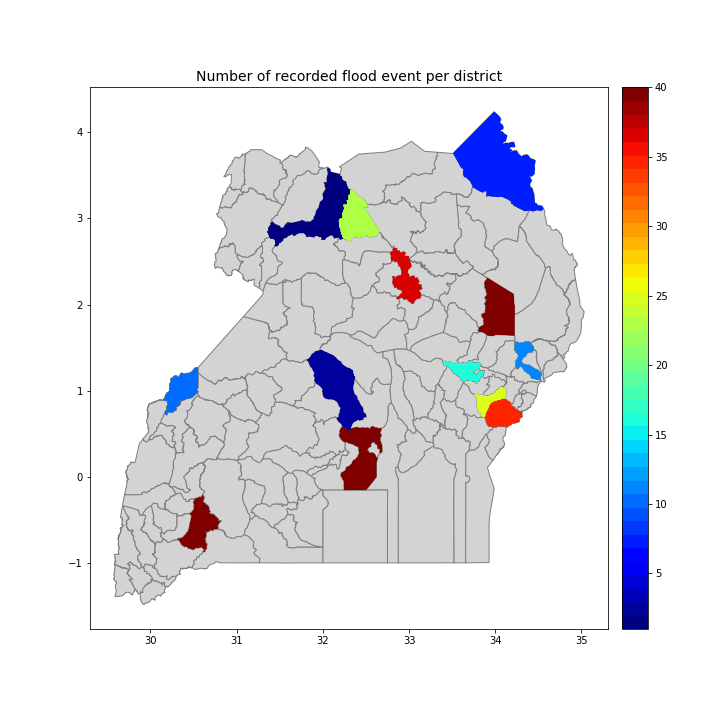
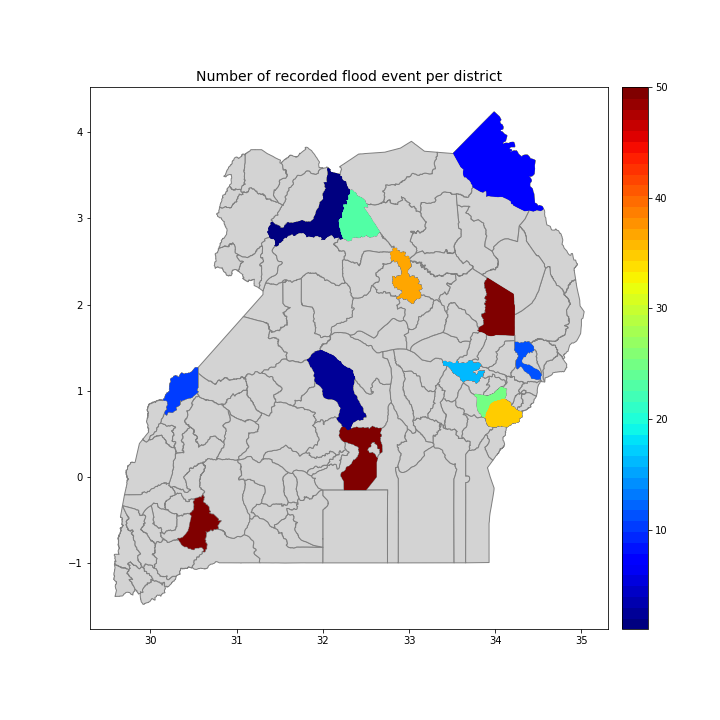
update

diff --git a/scripts/V111_glofas_analysis.py b/scripts/V111_glofas_analysis.py
@@ -194,14 +194,14 @@ for districts in Affected_admin: # for each district of Uganda
 #%% PLOTS to ZOOM TO SPECIFIC STATION AND TIMEFRAME
 # manual QC of specific station and date : change date and station below
 
-startYear, startMonth,startDay = (2007,5,23)
-endYear, endMonth,endDay = (2019,4,10)
+startYear, startMonth,startDay = (2002,5,1)
+endYear, endMonth,endDay = (2017,11,15)
 
 startDate = dt.datetime(year=startYear, month=startMonth, day=startDay)
 endDate = dt.datetime(year=endYear, month=endMonth, day=endDay)
 
-station = 'G5196'   #to change
-districts = 'Katakwi'
+station = 'F0032'   #to change
+districts = 'tororo'
 
 fe_district=flood_events[flood_events['district']==districts].reset_index()
 dis_sel= di[station].sel(time=slice(startDate,endDate)) 
@@ -215,6 +215,7 @@ for impacts_date in fe_district['Date']:
     if startDate <= impacts_date <= endDate :
         plt.axvline(x=impacts_date, color='y', linestyle='--')
 
+plt.title('District : %s / Station : %s' % (districts, station))
   
 #%%  Joining together tables and extracting discharge data to create a prediction model table (df_model)
 

diff --git a/scripts/IBF_flood_model_performance_visual.py b/scripts/IBF_flood_model_performance_visual.py
@@ -69,10 +69,10 @@ cax = divider.append_axes("right", size="5%", pad=0.2)
 
 merged_perf.plot(ax=ax, color='lightgrey', edgecolor='grey')
 ax.set_title('Number of recorded flood event per district', fontsize= 14)
-cmap = cm.get_cmap('jet', 40)    # adapt the number if needed
+cmap = cm.get_cmap('jet', 50)    # adapt the number if needed
 
 perfdrop= merged_perf.dropna(subset=['nb_event'])
-perfdrop.plot(ax=ax,column='nb_event', legend= True,vmin=1,vmax=40, cmap=cmap, cax=cax)    # adapt the vmax number if needed
+perfdrop.plot(ax=ax,column='nb_event', legend= True,vmin=1,vmax=50, cmap=cmap, cax=cax)    # adapt the vmax number if needed
 
 fig.savefig(path+'output/Performance_scores/Nb_event_district.png')
 
